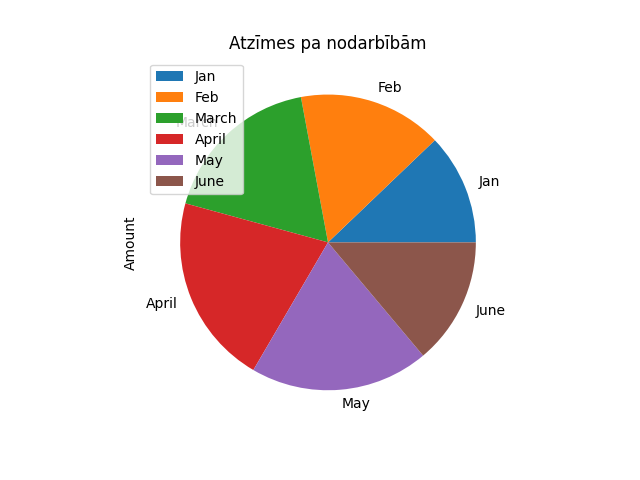
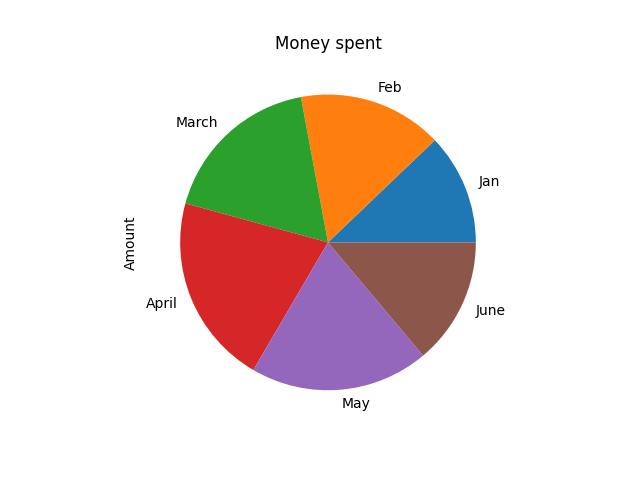
table insert

Changed region(s): [[0.2188, 0.125, 0.4062, 0.4062], [0.3438, 0.0625, 0.6562, 0.125]]

diff --git a/templates/ExampTable.html b/templates/ExampTable.html
@@ -1,0 +1,41 @@
+<table border="1" class="dataframe">
+  <thead>
+    <tr style="text-align: right;">
+      <th></th>
+      <th>Month</th>
+      <th>Amount</th>
+    </tr>
+  </thead>
+  <tbody>
+    <tr>
+      <th>0</th>
+      <td>Jan</td>
+      <td>540</td>
+    </tr>
+    <tr>
+      <th>1</th>
+      <td>Feb</td>
+      <td>702</td>
+    </tr>
+    <tr>
+      <th>2</th>
+      <td>March</td>
+      <td>792</td>
+    </tr>
+    <tr>
+      <th>3</th>
+      <td>April</td>
+      <td>926</td>
+    </tr>
+    <tr>
+      <th>4</th>
+      <td>May</td>
+      <td>869</td>
+    </tr>
+    <tr>
+      <th>5</th>
+      <td>June</td>
+      <td>617</td>
+    </tr>
+  </tbody>
+</table>

diff --git a/templates/example.html b/templates/example.html
@@ -2,4 +2,5 @@
 {% block content %}
 <img src="{{ url_for('static', filename='myplot1.png') }}">
 <img src="{{ url_for('static', filename='myplot2.png') }}">
+{% include "ExampTable.html" %}
 {% endblock %}

diff --git a/main.py b/main.py
@@ -1,6 +1,5 @@
 import os
 import flask
-from flask import request, flash
 import pandas as pd
 from flask_peewee.db import Database
 import matplotlib.pyplot as plt
@@ -17,34 +16,30 @@ app.secret_key = 'dingledong'
 df = pd.read_csv('static/Example.csv', sep=';')
 #1st diagramm
 df.plot(x='Month', y='Amount', kind='bar', color='red')
-plt.title('Atzīmes pa nodarbībām')
+plt.title('Money spent')
 plt.legend().remove()
 plt.savefig('static/myplot1.png')
 #2nd diagramm
 labels=df['Month'].values
 df.plot.pie(y='Amount', labels=labels)
-plt.title('Atzīmes pa nodarbībām')
+plt.title('Money spent')
 plt.legend().remove()
 plt.savefig('static/myplot2.png')
+#csv show 
+table=df.to_html('templates/ExampTable.html')
 
 
 @app.route('/')
 def home():
     return flask.render_template('home.html')
 
-
 @app.route('/Upload', methods=['GET', 'POST'])
 def upload():
-    if request.method == 'POST':
-        file = request.files['file']
-        if file.filename == '':
-            flash('No selected file')
-        if file.filename.endswith('.csv') == False:
-            flash('Not a csv file')
     return flask.render_template('upload.html')  
 
 @app.route('/example')
 def example():
+    
     return flask.render_template('example.html')  
 
 app.run()
